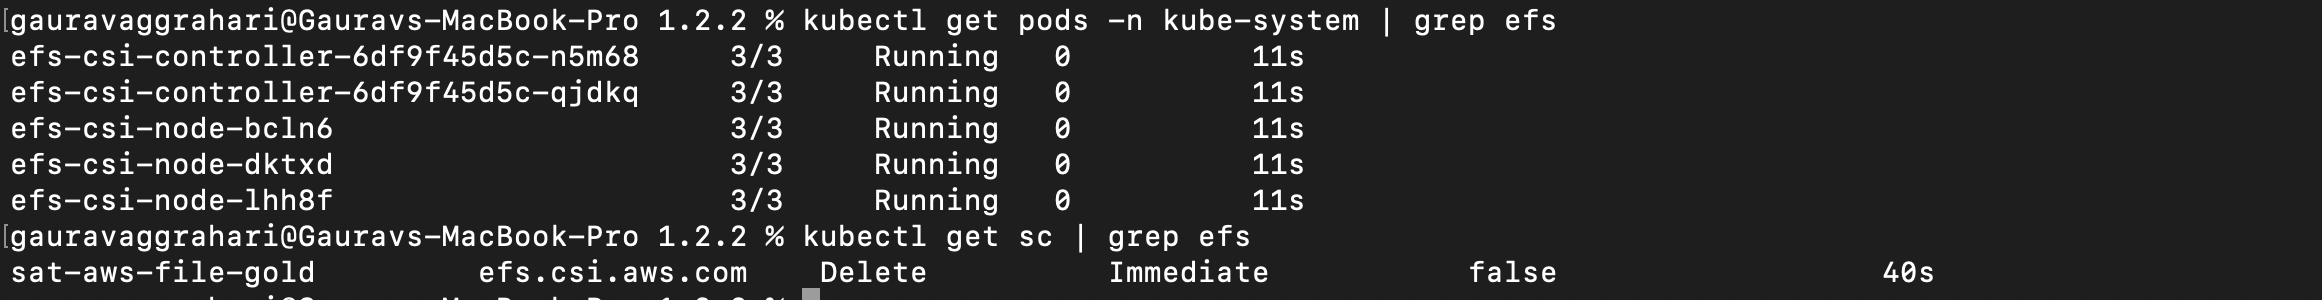
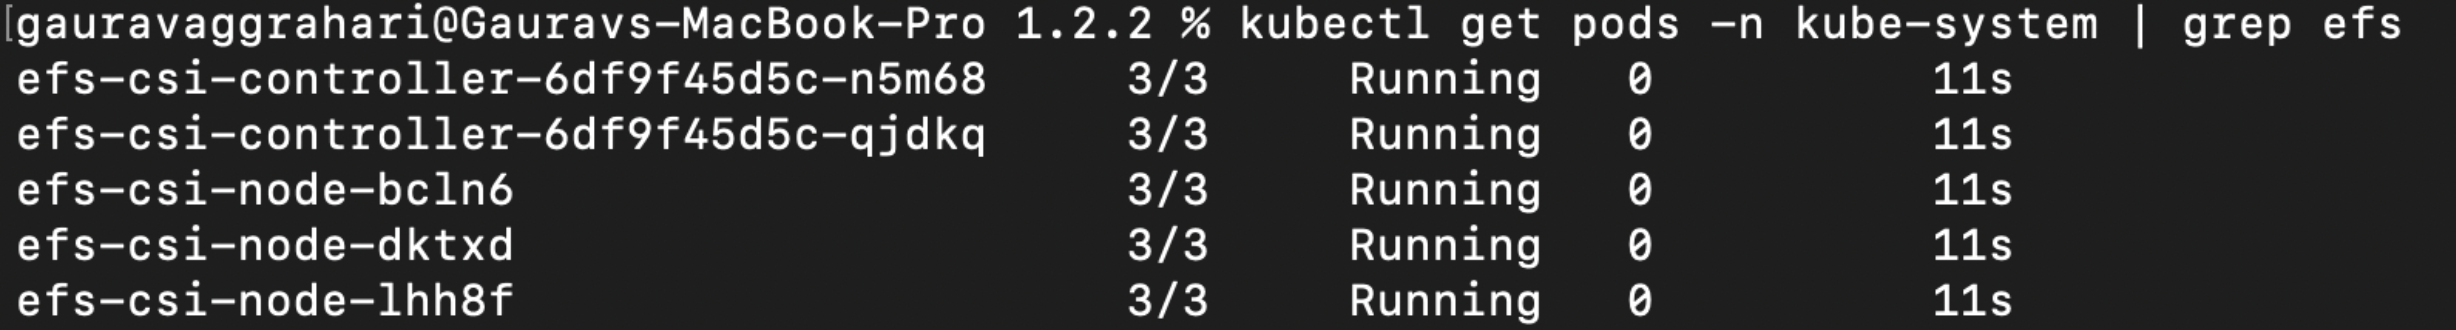
Updated README

diff --git a/config-templates/aws/aws-efs-csi-driver/1.2.2/README.md b/config-templates/aws/aws-efs-csi-driver/1.2.2/README.md
@@ -4,13 +4,14 @@ AWS EFS CSI driver implements the CSI specification for container orchestrators 
 
 # Features Supported:
 - Dynamic Provisioning
-- Static Provisioning
+      aws-efs-csi-driver 1.2.2 supports dynamic provisioning. To make use of dynamic provisining a user defined storage class must be created. While creating the storage class it has the provision to specify GID range which can be useful when providing access to the mounted volume for non-root users.
 
 ## Prerequisites
 
 - An [AWS EFS file system](https://docs.aws.amazon.com/efs/latest/ug/gs-step-two-create-efs-resources.html) needs to be created manually on AWS first. After that it can be mounted inside a container as a volume using the driver.
 - The driver requires IAM permission to manage Amazon EFS volumes. Create an IAM user with proper permission and get your *AWS Access Key*. For more information about how to retrieve your access key, see the [AWS IAM docs](https://docs.aws.amazon.com/IAM/latest/UserGuide/id_credentials_access-keys.html)
-
+- VPC for EFS and the cluster must be same.
+- Subnet used for cluster and EFS must be same.
 ## AWS EFS CSI Driver parameters & how to retrieve them
 
 ```
@@ -22,12 +23,6 @@ ibmcloud sat storage template get --name aws-efs-csi-driver --version 1.2.2
 | --- | --- | --- | --- |
 | `aws-access-key` | Required | Enter your AWS IAM access key. For more information about how to retrieve your access key, see the [AWS IAM docs](https://docs.aws.amazon.com/IAM/latest/UserGuide/id_credentials_access-keys.html). | N/A |
 | `aws-secret-access-key` | Required | Enter your AWS IAM secret access key. For more information about how to retrieve your access key, see the [AWS IAM docs](https://docs.aws.amazon.com/IAM/latest/UserGuide/id_credentials_access-keys.html). | N/A | |
-
-## Default storage classes
-
-| Storage class name | File system | IOPs | Size range | Reclaim policy |
-| --- | --- | --- | --- | --- |
-| `sat-aws-file-gold` | NFS | NA | NA | Delete | 
 
 
 ## Creating the AWS EFS CSI Driver storage configuration
@@ -60,14 +55,13 @@ efs-csi-node-nsmqb                      3/3     Running   0          3m36s
 List the EFS storage classes.
 
 ```
-% kubectl get sc -n kube-system | grep efs
-sat-aws-file-gold         efs.csi.aws.com    Delete          Immediate              false                  3m27s
-```
 
 **Example output**
 
 ![Example Output](./images/output.png)
 
+**Note**
+- For non root user efs-csi-driver 1.2.2 must be used.
 ## Troubleshooting
 
 
